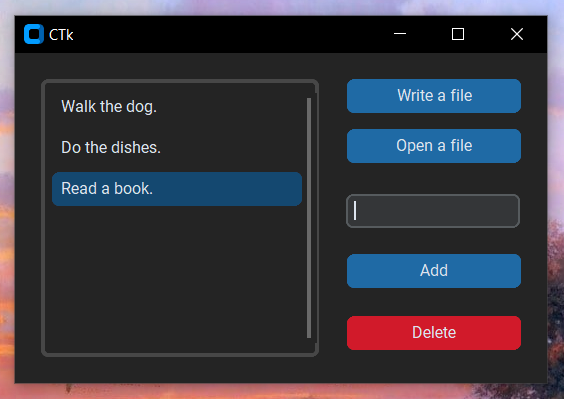
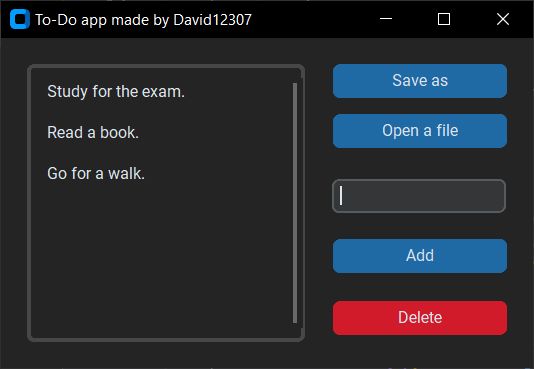
Small changes.

diff --git a/script.py b/script.py
@@ -52,7 +52,7 @@ class App(CTk):
                 file.close()
 
 
-
+        App.title(self, "To-Do app made by David12307")
         main_frame = CTkFrame(self, fg_color=self.cget("bg"))
         main_frame.grid(row = 0, column=0, padx=10, pady=10)
 
